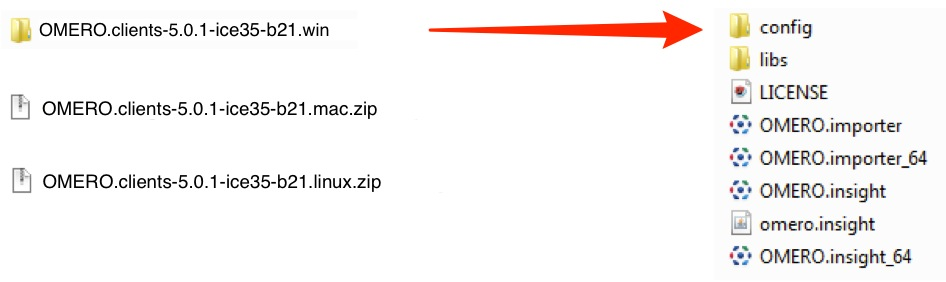
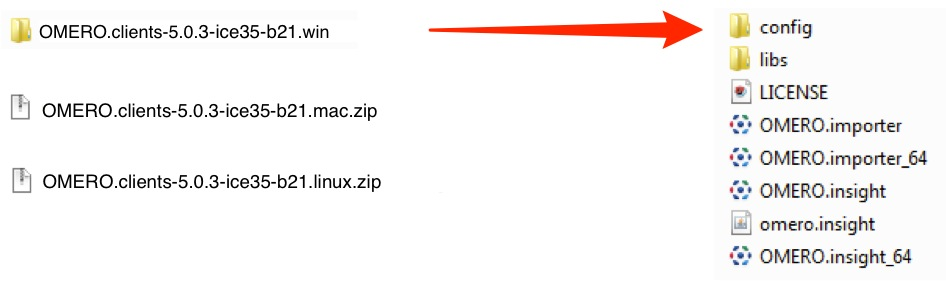
Changes in HTML, images and PDFs for Version 5.0.3 release

Changed region(s): [[0.0307, 0.3404, 0.3985, 0.4255], [0.0307, 0.0851, 0.3679, 0.1418], [0.2146, 0.6241, 0.2452, 0.6809]]

diff --git a/index.html b/index.html
@@ -7,13 +7,13 @@ title: OMERO User Help - Home Page
 <p>The User Guides for the current versions are listed in the main menu, for all OMERO applications, including OMERO.insight, OMERO.web, OMERO.editor and OMERO in ImageJ and Fiji.</p>
 <p>The Guides for the current versions are listed in the main menu, and the <a href="previous.html"> Guides for Previous Versions</a> page has links to archives of older versions.</p>
 <p>The <a href="resources.html">Resources</a> page contains links to ZIP archives of the PDFs for all the current versions,  customised versions of some of the Guides and other resources such as  Omnigraffle&reg; and Word&reg; files.</p>
-<p>The current release versions of OMERO.insight are 4.4.11 and 5.0.1. You can tell what version of OMERO.insight you are using by looking at the login screen.</p>
+<p>The current release versions of OMERO.insight are 4.4.11 and 5.0.3. You can tell what version of OMERO.insight you are using by looking at the login screen.</p>
 <p>&nbsp;</p>
 <p><img src="images/homeVersion.jpg" alt="OMERO.insight Version" style="width: 100%;"/></p>
 <p>&nbsp;</p>
 <p>All material is  covered by the <a href="http://creativecommons.org/licenses/by/3.0/">Creative Commons Attribution 3.0 Unported License</a> - you are free to share or adapt content as long as you credit the Open Microscopy Environment. The exception to this is the screenshots and videos which can only be used for non-commercial purposes.</p>
 <p>&nbsp;</p>
-<h2 style="text-align: center;">New in OMERO.insight 5.0.1</h2>
+<h2 style="text-align: center;">New in OMERO.insight 5.0.1 - 5.0.3</h2>
 
 <div class="line-block">
   <div class="line"><br /></div> <!-- end #line -->
@@ -23,7 +23,7 @@ title: OMERO User Help - Home Page
 
 <p>The way that OMERO.insight-ij, the ImageJ plugin, uses Bio-Formats has changed. To use ImageJ with OMERO 5.0.x you now need bioformats_package.jar in the plugins folder, to replace loci_tools.jar, which must be removed.</p>
 <p>Fiji now ships with Bio-Formats 5 by default so you can use it with the OMERO.insight-ij plugin version 5.0.x without needing to update anything.</p>
-<p>Full details of how to use OMERO with ImageJ and Fiji for both versions 5.0.2 and 4.4.11, and how to upgrade, are shown in the <a href="imagej.html">Using ImageJ with OMERO</a> section.</p>
+<p>Full details of how to use OMERO with ImageJ and Fiji for both versions 5.0.3 and 4.4.11, and how to upgrade, are shown in the <a href="imagej.html">Using ImageJ with OMERO</a> section.</p>
 
 <div class="line-block">
   <div class="line"><br /></div> <!-- end #line -->

diff --git a/getting-started-5.html b/getting-started-5.html
@@ -1,6 +1,6 @@
 ---
 layout: default
-title: Getting Started with OMERO.insight v. 5.0.2
+title: Getting Started with OMERO.insight v. 5.0.3
 menu-id: l1-quickstart
 pdfs:
     - getting-started-5.pdf
@@ -22,8 +22,9 @@ your standard login for the institution&#8217;s networked computers.</p>
 <h2>Installing</h2>
 <ol class="step">
 
-<li><p class="first">Download OMERO.insight client at:
-<a class="external-url" href="http://downloads.openmicroscopy.org/omero/5.0.0/" target="_blank">http://downloads.openmicroscopy.org/omero/5.0.2/</a></p>
+<li>
+<p class="first">Download OMERO.insight client at:
+<a href="http://downloads.openmicroscopy.org/latest/omero5" target="_blank" class="external-url">http://downloads.openmicroscopy.org/latest/omero5</a></p>
 
 <div class="line-block">
 <div class="line"><br /></div> <!-- end #line -->

diff --git a/resources.html b/resources.html
@@ -7,7 +7,7 @@ menu-id: l2-more
 <ul>
   <li>All User Guides for <a href="pdf/downloads/OMERO_User_Guides_4_4_11.zip">Version 4.4.11</a> (Zipped PDF 201 MB)</li>
   <br/>
-  <li>All User Guides for <a href="pdf/downloads/OMERO_User_Guides_5_0_2.zip">Version 5.0.2</a> (Zipped PDF 195.5 MB)</li>
+  <li>All User Guides for <a href="pdf/downloads/OMERO_User_Guides_5_0_3.zip">Version 5.0.3</a> (Zipped PDF 195.5 MB)</li>
   <br/>
   <li>CLS Nightshade <a href="pdf/downloads/cls-public.pdf">Public Sharing Instructions</a> and <a href="http://users.openmicroscopy.org.uk/~rkferguson/public_share_demo.html" target="_blank">Demo Site</a></li>
   <br/>

diff --git a/_layouts/default.html b/_layouts/default.html
@@ -7,7 +7,7 @@ navigation:
       name: Quickstart User Guides
       open: yes
       children:
-          - name: Getting Started v. 5.0.2
+          - name: Getting Started v. 5.0.3
             link: getting-started-5.html
           - name: Getting Started v. 4.4.11
             link: getting-started-4.html
@@ -25,7 +25,7 @@ navigation:
       name: OMERO.insight
       open: no
       children:
-          - name: Importing Data v. 5.0.2
+          - name: Importing Data v. 5.0.3
             link: importing-data-5.html
           - name: Importing Data v. 4.4.11
             link: importing-data-4.html

diff --git a/previous.html b/previous.html
@@ -14,6 +14,7 @@ menu-id: l1-more
 <p>All User Guides for <a href="pdf/archives/OMERO_User_Guides_5_0_0_rc1.zip">Version 5.0.0-rc1</a> (Zipped PDF 280.7 MB)</p>
 <p>All User Guides for <a href="pdf/archives/OMERO_User_Guides_5_0_0.zip">Version 5.0.0</a> (Zipped PDF 179.4 MB)</p>
 <p>All User Guides for <a href="pdf/archives/OMERO_User_Guides_5_0_1.zip">Version 5.0.1</a> (Zipped PDF 287.6 MB)</p>
+<p>All User Guides for <a href="pdf/archives/OMERO_User_Guides_5_0_2.zip">Version 5.0.2</a> (Zipped PDF 195.9 MB)</p>
 
 
   <div class="line-block">

diff --git a/importing-data-5.html b/importing-data-5.html
@@ -1,6 +1,6 @@
 ---
 layout: default
-title: Importing Data with OMERO.insight v. 5.0.2
+title: Importing Data with OMERO.insight v. 5.0.3
 menu-id: l1-insight
 pdfs:
     - importing-data-5.pdf
